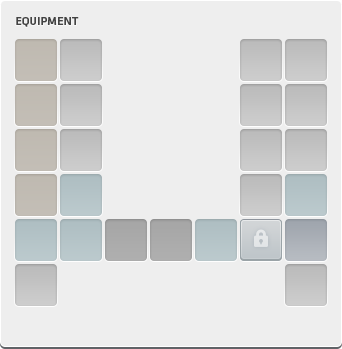
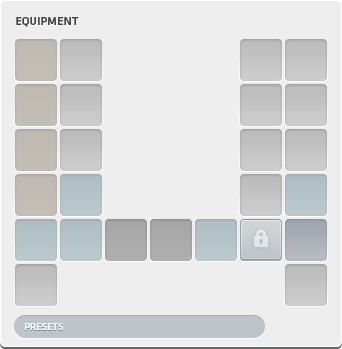
이벤트 스킬 적용 및 장비 프리셋 추가

Changed region(s): [[0.0292, 0.8883, 0.7895, 0.9742]]

diff --git a/src/pages/MainPage.jsx b/src/pages/MainPage.jsx
@@ -54,6 +54,10 @@ export default function MainPage() {
   const [showInventory, setShowInventory] = useState(false);  // 인벤토리 표시 여부
   const [hoveredInventoryItem, setHoveredInventoryItem] = useState(null); // 인벤토리 아이템 호버 상태
 
+  // 프리셋
+  const [preset, setPreset] = useState(1);
+  const [applyPreset, setApplyPreset] = useState(false);
+
   // 기타 상태
   const navigate = useNavigate(); // 내비게이터
   const { showToast } = useToast(); // 토스트
@@ -177,6 +181,68 @@ export default function MainPage() {
     setInfoLocked(false);
   };
 
+  /* ===== 프리셋 ===== */
+  useEffect(() => {
+    if (!character) return;
+    if (character.preset_no !== undefined) {
+      setPreset(character.preset_no);
+    }
+  }, [character]);
+
+  // 프리셋으로 장비 변경
+  function mapPresetEquipmentToSlot(presetEquipment) {
+    // presetEquipment: 배열
+    const equipmentMap = {};
+    const countMap = {};
+    for (const item of presetEquipment) {
+      let raw = item.item_equipment_slot || item.item_equipment_part;
+      if (!raw) continue;
+      if (raw === "펜던트") {
+        countMap["펜던트"] = (countMap["펜던트"] || 0) + 1;
+        raw = countMap["펜던트"] === 1 ? "펜던트" : "펜던트2";
+      } else if (raw === "반지") {
+        countMap["반지"] = countMap["반지"] || 1;
+        raw = `반지${countMap["반지"]}`;
+        countMap["반지"] += 1;
+      }
+      equipmentMap[raw] = item;
+    }
+    return equipmentMap;
+  }
+
+  // 프리셋 버튼 핸들러
+  function handlePresetSelect(n) {
+    setPreset(n); // 버튼 스타일, UI
+    let presetEquipment;
+    if (n === 1) presetEquipment = character.equipment_preset_1;
+    if (n === 2) presetEquipment = character.equipment_preset_2;
+    if (n === 3) presetEquipment = character.equipment_preset_3;
+    console.log(presetEquipment)
+
+    if (!presetEquipment) return;
+
+    const equipmentMap = mapPresetEquipmentToSlot(presetEquipment);
+    setEquipment(equipmentMap); // 이게 슬롯에 즉시 반영
+  }
+
+  // 프리셋 적용 핸들러
+  function handleApplyPreset() {
+    // 기준 장비 업데이트
+    setOriginalEquipment(equipment);
+    
+    // 바뀐 장비 프리셋으로 전투력 재계산
+    const newPower = calculatePower(
+      Object.values(equipment),
+      character.class,
+      character.baseStat,
+      character.noPerStat,
+      character.perStat,
+      character.level
+    );
+    setOriginalPower(newPower);
+    setPowerDiff(0); // 적용 시 전투력 변화량 0으로
+  }
+
   /* ===== 인벤토리 ===== */
   // 인벤토리 로컬 스토리지에 저장
   useEffect(() => {
@@ -268,7 +334,7 @@ export default function MainPage() {
   const slotStyle = "absolute w-[48px] h-[48px] bg-black bg-opacity-0 rounded active:bg-opacity-20 hover:bg-opacity-10";
   const slots = [
     ...["반지1", "반지2", "반지3", "반지4", "벨트", "포켓 아이템"].map((name, i) => ({ name, top: 23.05 + i * 10, left: 7.9 })),
-    ...["눈장식", "귀고리", "펜던트", "펜던트2", "얼굴장식"].map((name, i) => ({ name, top: 23.05 + i * 10, left: 20.1 })),
+    ...["얼굴장식", "눈장식", "귀고리", "펜던트", "펜던트2"].map((name, i) => ({ name, top: 23.05 + i * 10, left: 20.1 })),
     ...["모자", "상의", "하의", "어깨장식"].map((name, i) => ({ name, top: 23.05 + i * 10, left: 69 })),
     ...["망토", "장갑", "신발", "훈장", "기계 심장", "뱃지"].map((name, i) => ({ name, top: 23.05 + i * 10, left: 81.2 })),
     { name: "무기", top: 63.2, left: 32.3 },
@@ -372,6 +438,38 @@ export default function MainPage() {
             </button>
           </div>
         </div>
+         
+        {/* 프리셋 버튼 */}
+        <div className="flex gap-2 absolute left-[52.5%] top-[85%] max-sm:top-[80%] z-50">
+          {[1, 2, 3].map(n => (
+            <button
+              key={n}
+              className="items-center focus:outline-none"
+              onClick={() => handlePresetSelect(n)}
+              style={
+                preset === n
+                  ? { border: '2px solid #fff', borderRadius: '5px', boxShadow: '0 0 3px 1px #44B7CF40, 0 0 18px 6px #44B7CF40' }
+                  : { border: '2px solid transparent', borderRadius: '5px' }
+              }
+            >
+              <img
+                src={`/images/inventory/preset${n}${preset === n ? '_pressed' : ''}.png`}
+                alt={`preset${n}`}
+                className="w-[100%] transition hover:brightness-110 active:brightness-90"
+              />
+            </button>
+          ))}
+        </div>
+
+        {/* 프리셋 적용 버튼 */}
+        <button
+          onClick={handleApplyPreset}
+          className="absolute top-[84.7%] left-[77%] items-center rounded z-50 hover:brightness-110 active:brightness-90">
+          <img
+            src="/images/inventory/적용.png" alt="프리셋 적용" className=""
+          />
+        </button>
+        
 
         {/* 처음으로 버튼 */}
         <button
@@ -381,6 +479,9 @@ export default function MainPage() {
         >
           처음으로
         </button>
+
+        
+
 
         {/* 장비 슬롯 */}
         {slots.map(({ name, top, left }) => (
@@ -496,7 +597,7 @@ export default function MainPage() {
             {/* 전체 초기화 버튼 */}
             <button
               onClick={handleResetAllEquipment}
-              className="bg-red-600 w-[90px] h-[30px] rounded text-[13px] font-galmuri text-white active:brightness-75 hover:brightness-125 transition text-center
+              className="bg-red-600 w-[90px] h-[30px] rounded text-[13px] font-galmuri text-white active:brightness-75 hover:brightness-110 transition text-center
                          max-sm:text-[9px] max-sm:w-[60px] max-sm:h-[20px]"
             >
               전체 초기화

diff --git a/src/components/ScrollModal.jsx b/src/components/ScrollModal.jsx
@@ -3,6 +3,7 @@ import { motion } from "framer-motion";
 import magicScroll from '../data/MagicScroll.json';
 import spellScroll from "../data/SpellScroll.json";
 import { useToast } from "../utils/toastContext";
+import jobStat from "../data/jobStat.json";
 
 // 주문서 표현식: json-API 순
 const ETC_KEY_MAP = {
@@ -20,7 +21,11 @@ const ETC_KEY_MAP = {
 };
 
 // 아이템 부위/레벨에 맞는 주문서 목록 추출 함수
-function getScrollOptions(item, type = "scroll") {
+function getScrollOptions(item, type = "scroll", character_class) {
+	const jobInfo = jobStat.find(j => j.class === character_class);
+	const mainStat = jobInfo?.main_stat || "STR";
+	const isMagicClass = mainStat === "INT";
+
 	// 전용 주문서
 	if (type === "spell") {
 		// 부위에 해당하는 주문서만 필터링
@@ -65,11 +70,25 @@ function getScrollOptions(item, type = "scroll") {
           Object.keys(value).forEach(k => {
             if (k !== "스탯") v[k] = value[k];
           });
+					let name;
+					if (["무기", "보조무기"].includes(item.item_equipment_slot)) {
+						if (statType === "INT") {
+							name = `${scroll}% 마력(지력) 주문서`;
+						} else if (statType === "STR") {
+							name = `${scroll}% 공격력(힘) 주문서`;
+						} else if (statType === "DEX") {
+							name = `${scroll}% 공격력(민첩) 주문서`;
+						} else if (statType === "LUK") {
+							name = `${scroll}% 공격력(운) 주문서`;
+						}
+					} else {
+						name = `${scroll}% ${STAT_KR[statType]} 주문서`;
+					}
           result.push({
             type: "stat",
             scroll,
             statType,
-            name: `${scroll}% ${STAT_KR[statType]} 주문서`,
+            name,
             value: v,
           });
         });
@@ -124,14 +143,14 @@ function getSortKey(scroll) {
   return [3, 0, 0];
 }
 
-export default function ScrollModal({item, setEtcOptions, onClose, onApply}) {
+export default function ScrollModal({item, character_class, setEtcOptions, onClose, onApply}) {
 	const [selectedScroll, setSelectedScroll] = useState(0);	// 현재 선택한 주문서 종류
 	const scroll_upgrade = Number(item.scroll_upgrade);	// 주문서 사용 가능 횟수
 	const [selectedType, setSelectedType] = useState("scroll");	// 주문의 흔적 or 전용 주문서 선택 여부
 	const [scrollTryIdx, setScrollTryIdx] = useState(-1);	// 주문서 슬롯 인덱스
 	const [slotScrolls, setSlotScrolls] = useState(Array(Number(scroll_upgrade) || 0).fill(null));	// 주문서 슬롯 별 적용된 주문서
 	const [hoveredIdx, setHoveredIdx] = useState(null);	// hover 중인 주문서 슬롯 인덱스
-	const scrollList = getScrollOptions(item, selectedType);	// 전체 주문서 목록
+	const scrollList = getScrollOptions(item, selectedType, character_class);	// 전체 주문서 목록
 	const [spellValueSelect, setSpellValueSelect] = useState(null);	// 선택한 전용 주문서 값
 
 	const { showToast } = useToast(); // 토스트

diff --git a/src/utils/initcalPower.js b/src/utils/initcalPower.js
@@ -335,17 +335,48 @@ function hyperStatPower(hyperStat, baseStat, noPerStat, perStat) {
 
 // 7. 스킬
 function skillPower(skill, baseStat, noPerStat) {
-  skill.forEach(({ skill_effect }) => {
+  const powerSkillNames = ["정령의 축복", "여제의 축복"];
+  skill.forEach(({ skill_name, skill_effect }) => {
     if (!skill_effect) return;
 
-    // 모든 숫자 추출 (공격력, 마력 순서)
-    // 1. "공격력 N" 추출
-    const atkMatch = skill_effect.match(/공격력\s*(\d+)/);
-    if (atkMatch) baseStat.atk += Number(atkMatch[1]);
+    // 여러 줄로 들어온 경우 한 줄씩 체크
+    const lines = skill_effect.split(/\r?\n/).map(s => s.trim()).filter(Boolean);
+    let m;
 
-    // 2. "마력 N" 추출
-    const magicMatch = skill_effect.match(/마력\s*(\d+)/);
-    if (magicMatch) baseStat.magic += Number(magicMatch[1]);
+    // 펫 스킬, 정령의 축복, 여제의 축복
+    if (powerSkillNames.includes(skill_name) || skill_name.includes("Lv")) {
+      lines.forEach(line => {
+        const m = line.match(/^공격력\s*(\d+),\s*마력\s*(\d+)\s*증가$/);
+        if (m) {
+          baseStat.atk = (baseStat.atk || 0) + Number(m[1]);
+          baseStat.magic = (baseStat.magic || 0) + Number(m[2]);
+        }
+      });
+      return;
+    }
+
+    // 이벤트 스킬
+    lines.forEach(line => {
+      m = line.match(/^공격력\/마력\s*(\d+)\s*증가$/);
+      if (m) {
+        baseStat.atk += Number(m[1]);
+        baseStat.magic += Number(m[1]);
+      }
+      m = line.match(/^보스 몬스터  데미지\s*(\d+)%\s*증가$/);
+      if (m) baseStat.boss_damage += Number(m[1]);
+      m = line.match(/^보스 몬스터 공격 시 데미지\s*(\d+)%\s*증가$/);
+      if (m) baseStat.boss_damage += Number(m[1]);
+      m = line.match(/^크리티컬 데미지\s*(\d+)%\s*증가$/);
+      if (m) baseStat.crit_damage += Number(m[1]);
+      m = line.match(/^올스탯\s*(\d+)\s*증가$/);
+      if (m) {
+        ["STR", "DEX", "INT", "LUK"].forEach(stat => {
+          baseStat[stat]+= Number(m[1]);
+        });
+      }
+      m = line.match(/^최대 HP\/MP\s*(\d+)\s*증가$/);
+      if (m) baseStat.HP += Number(m[1]);
+    });
   });
 }
 

diff --git a/api/characterSearch.js b/api/characterSearch.js
@@ -108,16 +108,6 @@ export default async function handler(req, res) {
     const combatPowerObj = stat.final_stat ? stat.final_stat.find(s => s.stat_name === "전투력") : null;
     const combatPower = combatPowerObj ? combatPowerObj.stat_value : null;
 
-    const powerSkillNames = ["정령의 축복", "여제의 축복", "파괴의 얄다바오트"];
-    // 펫 스킬 찾기
-    const filteredSkills = skill.character_skill
-      ? skill.character_skill.filter(
-          (s) =>
-            s.skill_name.includes("Lv") ||
-            powerSkillNames.includes(s.skill_name)
-        )
-      : [];
-
     // 하이퍼 스탯 프리셋 1만 추출
     const presetNo = hyperStat.use_preset_no || "1";
     const presetKey = `hyper_stat_preset_${presetNo}`;
@@ -130,12 +120,16 @@ export default async function handler(req, res) {
       character_level: infoBody.character_level,  // 캐릭터 레벨
       character_image: infoBody.character_image,  // 캐릭터 이미지 URL
       combat_power: combatPower,                  // 전투력
+      item_preset:  item.preset_no,               // 적용하고 있는 장비 프리셋 번호
       item: item.item_equipment,                  // 장비
+      item_preset1: item.item_equipment_preset_1, // 장비 프리셋1
+      item_preset2: item.item_equipment_preset_2, // 장비 프리셋2
+      item_preset3: item.item_equipment_preset_3, // 장비 프리셋3
       title: item.title,                          // 칭호
       hyperStat: preset,                          // 하이퍼 스탯
       ability: ability.ability_info,              // 어빌리티
       symbol: symbol.symbol,                      // 심볼 정보
-      skill: filteredSkills,                      // 0차 스킬
+      skill: skill.character_skill,               // 0차 스킬
       hexa_stat: {                                // 헥사 스텟
         character_hexa_stat_core: hexaStat.character_hexa_stat_core,
         character_hexa_stat_core_2: hexaStat.character_hexa_stat_core_2,

diff --git a/src/App.jsx b/src/App.jsx
@@ -22,6 +22,23 @@ function App() {
             </Routes>
             {/* 저작권 표시 */}
             <footer className="w-full py-4 text-center text-sm text-white font-dotum bg-[#96BA44]">
+              {/* 아이콘 버튼 영역 */}
+              <div className="flex justify-center gap-4 mb-3">
+                {/* 지메일 */}
+                <a href="mailto:maplepowercal@gmail.com" target="_blank" rel="noopener noreferrer" title="이메일">
+                  <img src="/images/icons/지메일.png" alt="지메일" className="select-none w-10 h-10 inline-block hover:brightness-110 active:brightness-90" />
+                </a>
+                {/* 카카오톡 */}
+                <a href="https://open.kakao.com/o/sBmiSGKh" target="_blank" rel="noopener noreferrer" title="카카오톡 오픈채팅">
+                  <img src="/images/icons/카카오톡.png" alt="카카오톡" className="select-none w-10 h-10 inline-block hover:brightness-110 active:brightness-90" />
+                </a>
+                {/* 유튜브 */}
+                {/*<a href="https://www.youtube.com/" target="_blank" rel="noopener noreferrer" title="유튜브">
+                  <img src="/images/icons/유튜브.png" alt="유튜브" className="select-none w-10 h-10 inline-block hover:brightness-110 active:brightness-90" />
+                </a>*/}
+              </div>
+
+              {/* 글씨 영역 */}
               Data Based on NEXON OPEN API <br />
               This site is not an official site of NEXON and does not provide any warranty.<br />
               ⓒ 2025 스카니아@IBUCHUI. All Rights Reserved.<br />

diff --git a/src/utils/fetchCharacterByName.js b/src/utils/fetchCharacterByName.js
@@ -39,6 +39,10 @@ export async function fetchCharacterByName(name) {
       baseStat: baseStat,             // 기본 스탯
       noPerStat: noPerStat,           // % 미적용 스탯
       perStat: perStat,               // % 스탯
+      preset_no: result.item_preset,  // 장비 프리셋 번호
+      equipment_preset_1: result.item_preset1,  // 1번 프리셋 장비
+      equipment_preset_2: result.item_preset2,  // 2번 프리셋 장비
+      equipment_preset_3: result.item_preset3,  // 3번 프리셋 장비
     };
 
     return mappedChar;

diff --git a/src/components/EquipmentInfo.jsx b/src/components/EquipmentInfo.jsx
@@ -694,6 +694,7 @@ export default function EquipmentInfo({
           {editable && showScrollModal && (
             <ScrollModal 
               item = {item}
+              character_class = {character.class}
               setEtcOptions={setEtcOptions}
               onApply={newEtcOption => {
                 setEtcOptions(prev => ({ ...prev, ...newEtcOption }));      // 확정 저장
